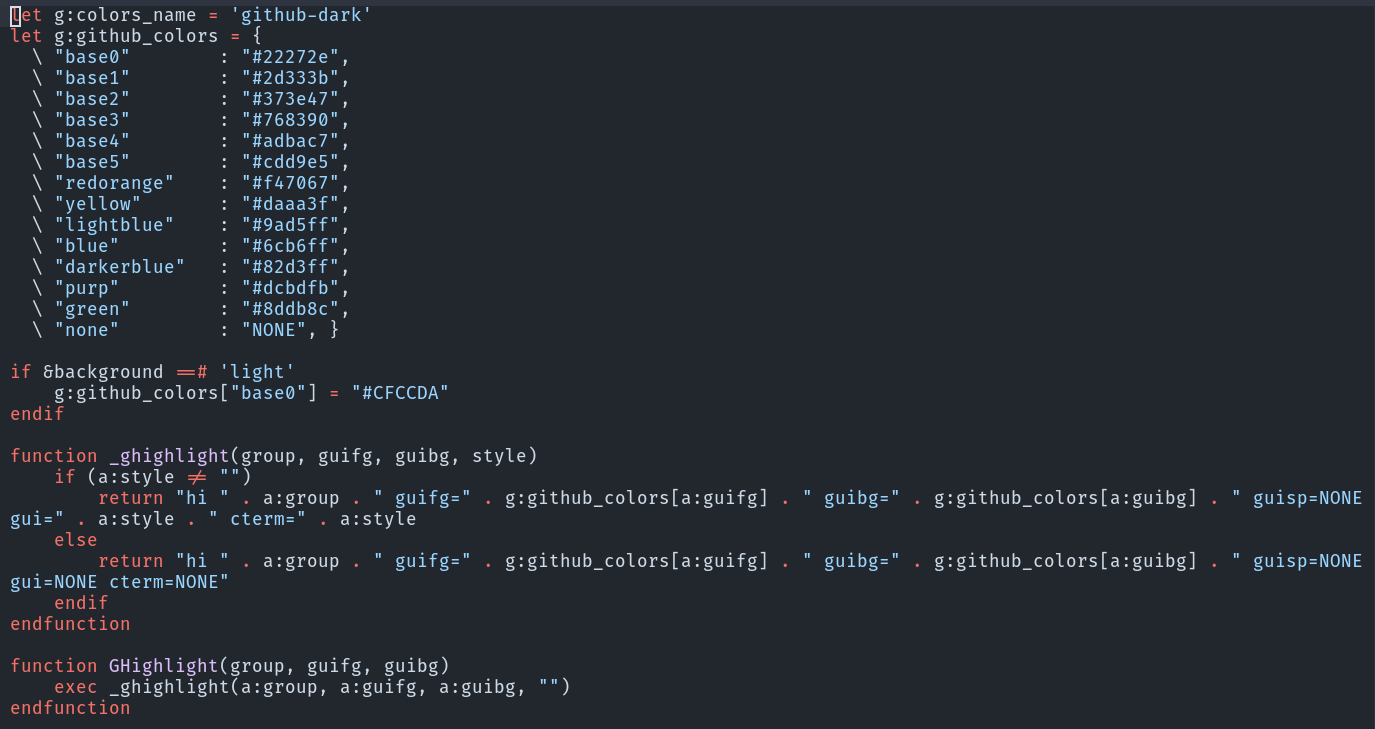
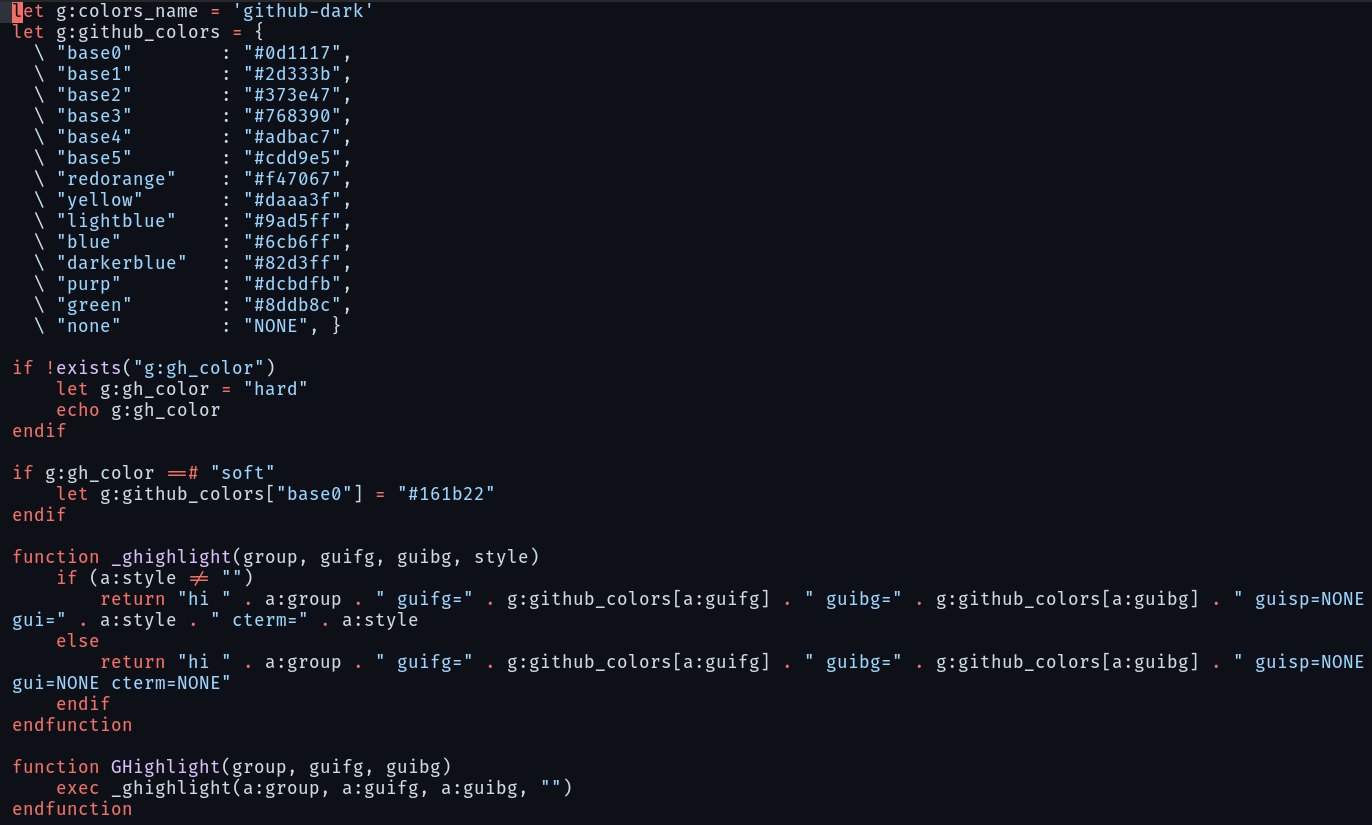
Add two different shades of background

Changed region(s): [[0.0, 0.0, 1.0, 0.9959], [0.6735, 0.6639, 1.0, 0.8148]]

diff --git a/README.md b/README.md
@@ -8,8 +8,13 @@ To install using [vim-plug](https://github.com/junegunn/vim-plug) add this line 
 
 To later use it add `colorscheme github-dark` to your `init.vim` or `vimrc` file
 
+# Config
+
+There are two backgrounds available, the default is the dark one matching the GitHub website. To use the slightly softer one set `let g:gh_color = "soft"` in your `vimrc`.
+
 ## Screenshots
-![screenshot of vim syntax](https://raw.githubusercontent.com/wojciechkepka/vim-github-dark/master/screen.png)
+![screenshot of default dark syntax](https://raw.githubusercontent.com/wojciechkepka/vim-github-dark/master/screen.png)
+![screenshot of soft syntax](https://raw.githubusercontent.com/wojciechkepka/vim-github-dark/master/screen-soft.png)
 ![screenshot of rust syntax](https://raw.githubusercontent.com/wojciechkepka/vim-github-dark/master/screen1.png)
 
 ## License
